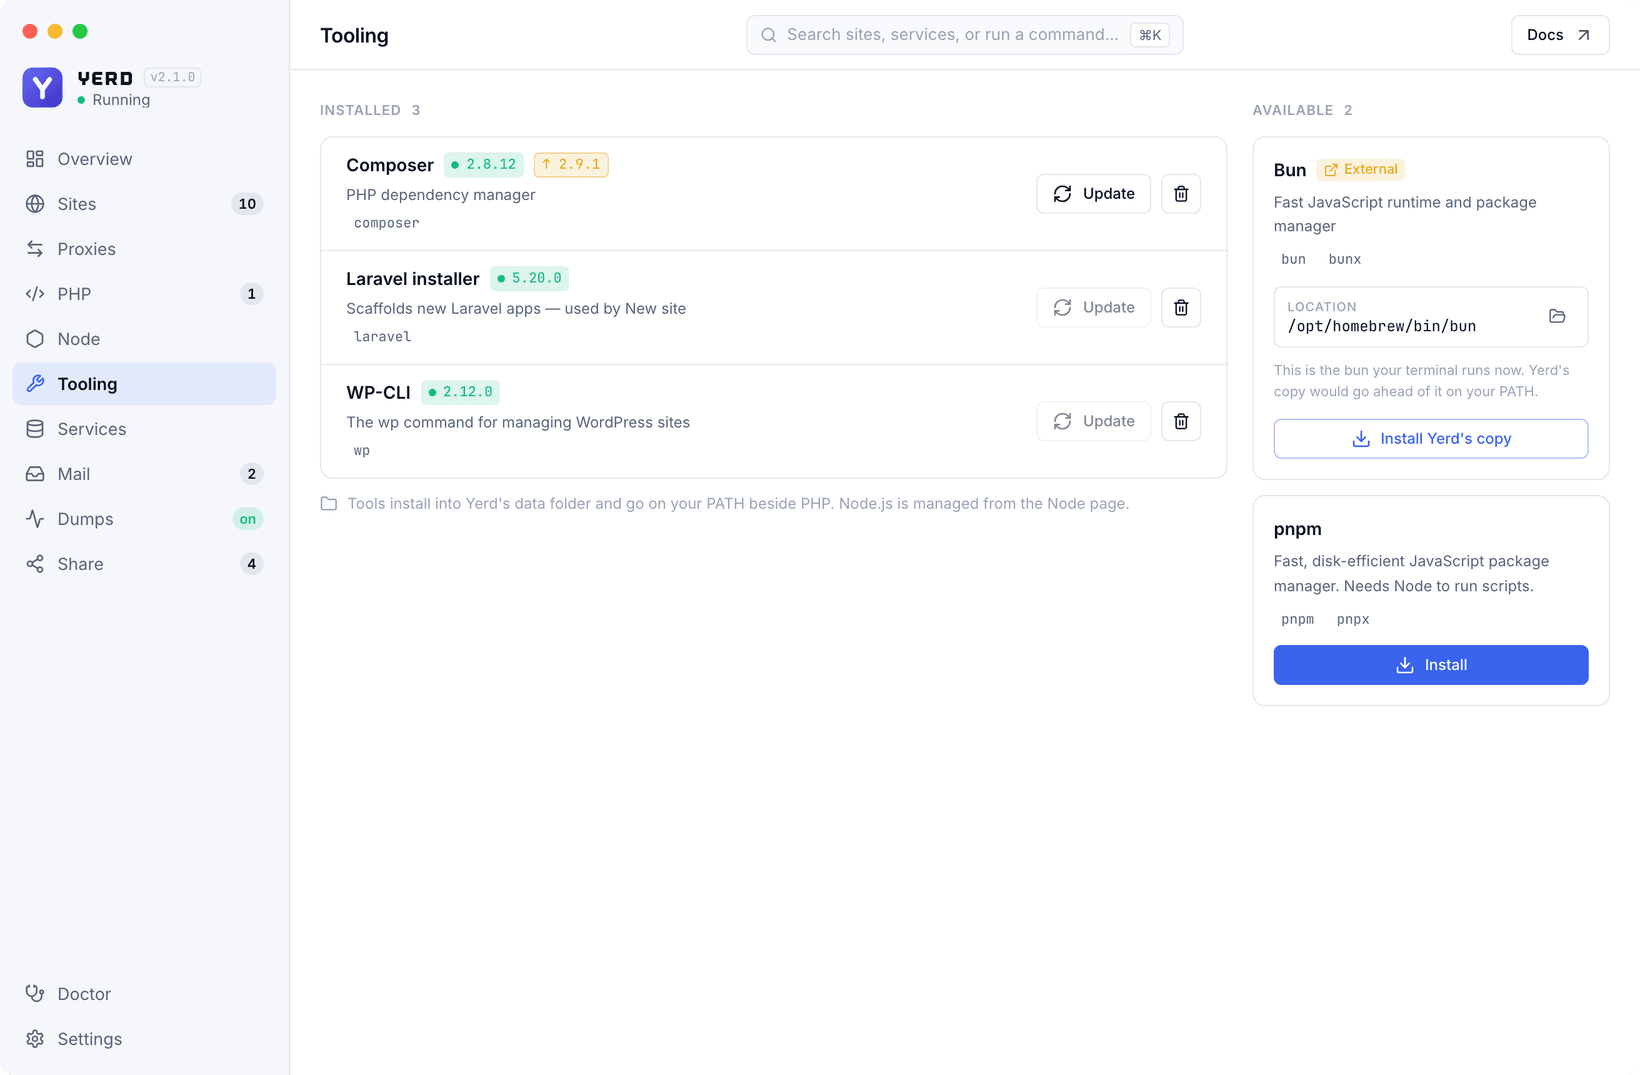
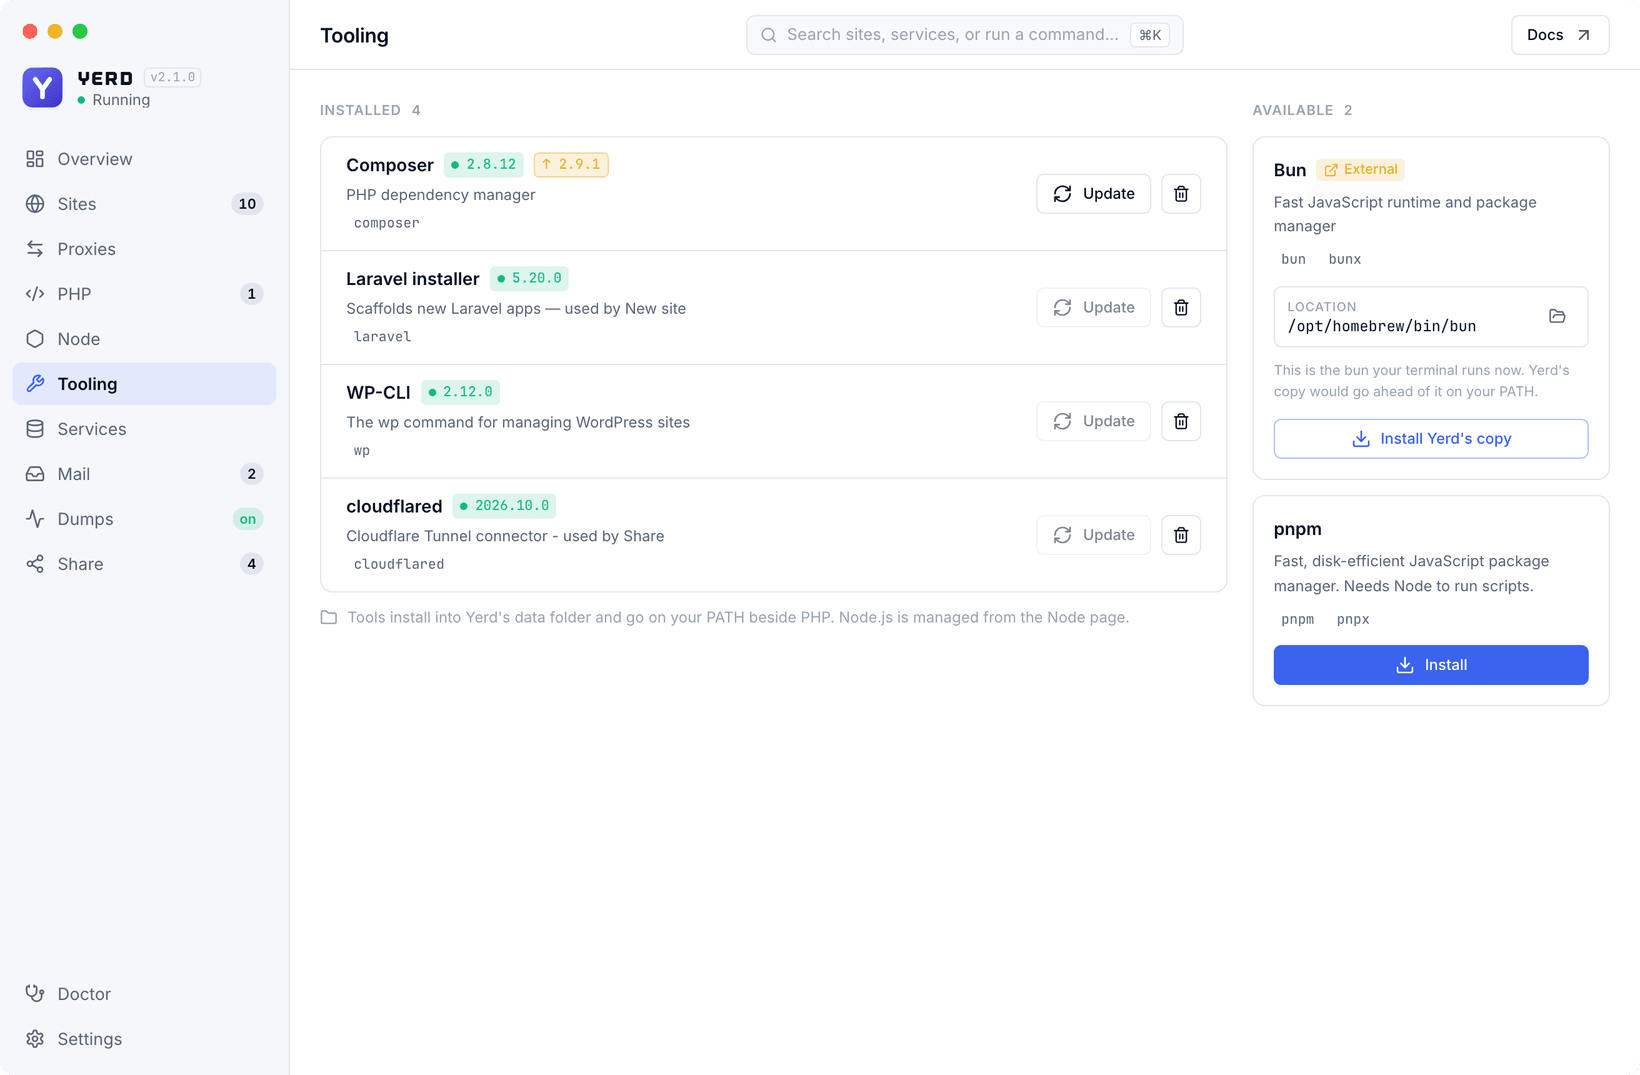
meta: doc screenshot changes

Changed region(s): [[0.1866, 0.4605, 0.6841, 0.5833], [0.7152, 0.4912, 0.7463, 0.5219]]

diff --git a/docs/guide/desktop-app.md b/docs/guide/desktop-app.md
@@ -113,7 +113,7 @@ The **Editor** submenu defaults to the Preferred editor set in [Settings](#setti
 
 ### Tooling
 
-<ThemedImage light="/images/tooling-light.png" dark="/images/tooling-dark.png" alt="The Tooling page: installed Composer (update available), Laravel installer and WP-CLI, with Bun (external) and pnpm available" />
+<ThemedImage light="/images/tooling-light.png" dark="/images/tooling-dark.png" alt="The Tooling page: installed Composer (update available), Laravel installer, WP-CLI and cloudflared, with Bun (external) and pnpm available" />
 
 Installs self-contained developer tools - Composer, Bun, pnpm, the Laravel installer, WP-CLI, and cloudflared (used by [Share](#share)) - onto your PATH alongside PHP, each managed by Yerd (install / update / uninstall) so they don't collide with system installs. Node.js isn't listed here: it has its own [Node](#node) page. See [Tooling](./tooling).
 

diff --git a/docs/guide/tooling.md b/docs/guide/tooling.md
@@ -34,7 +34,7 @@ removes them cleanly on uninstall.
 Open the **Tooling** page from the sidebar (under the **Developer** group). It
 lists the developer tools Yerd manages in two groups:
 
-<ThemedImage light="/images/tooling-light.png" dark="/images/tooling-dark.png" alt="The Tooling page: Composer (with an update to 2.9.1), the Laravel installer and WP-CLI installed, and Bun (found externally in /opt/homebrew/bin) and pnpm available" />
+<ThemedImage light="/images/tooling-light.png" dark="/images/tooling-dark.png" alt="The Tooling page: Composer (with an update to 2.9.1), the Laravel installer, WP-CLI and cloudflared installed, and Bun (found externally in /opt/homebrew/bin) and pnpm available" />
 
 - **Installed** lists each installed tool (**Composer**, **Bun**, **pnpm**, the
   **Laravel installer**, **WP-CLI**, **cloudflared**) with its version and the commands it

diff --git a/docs/guide/sharing.md b/docs/guide/sharing.md
@@ -53,7 +53,7 @@ In the desktop app, install, update and uninstall `cloudflared` from
 **Yerd's copy**) with an **Open Tooling** link when it is missing or an update
 is available.
 
-<ThemedImage light="/images/share-setup-light.png" dark="/images/share-setup-dark.png" alt="The Share setup dialog: cloudflared installed, the Cloudflare account connected and the domain tunnel live with two sites" />
+<ThemedImage light="/images/share-setup-light.png" dark="/images/share-setup-dark.png" alt="The Share setup dialog: Yerd's cloudflared installed, the Cloudflare account connected and the domain tunnel live with two sites" />
 
 ## Quick share
 
